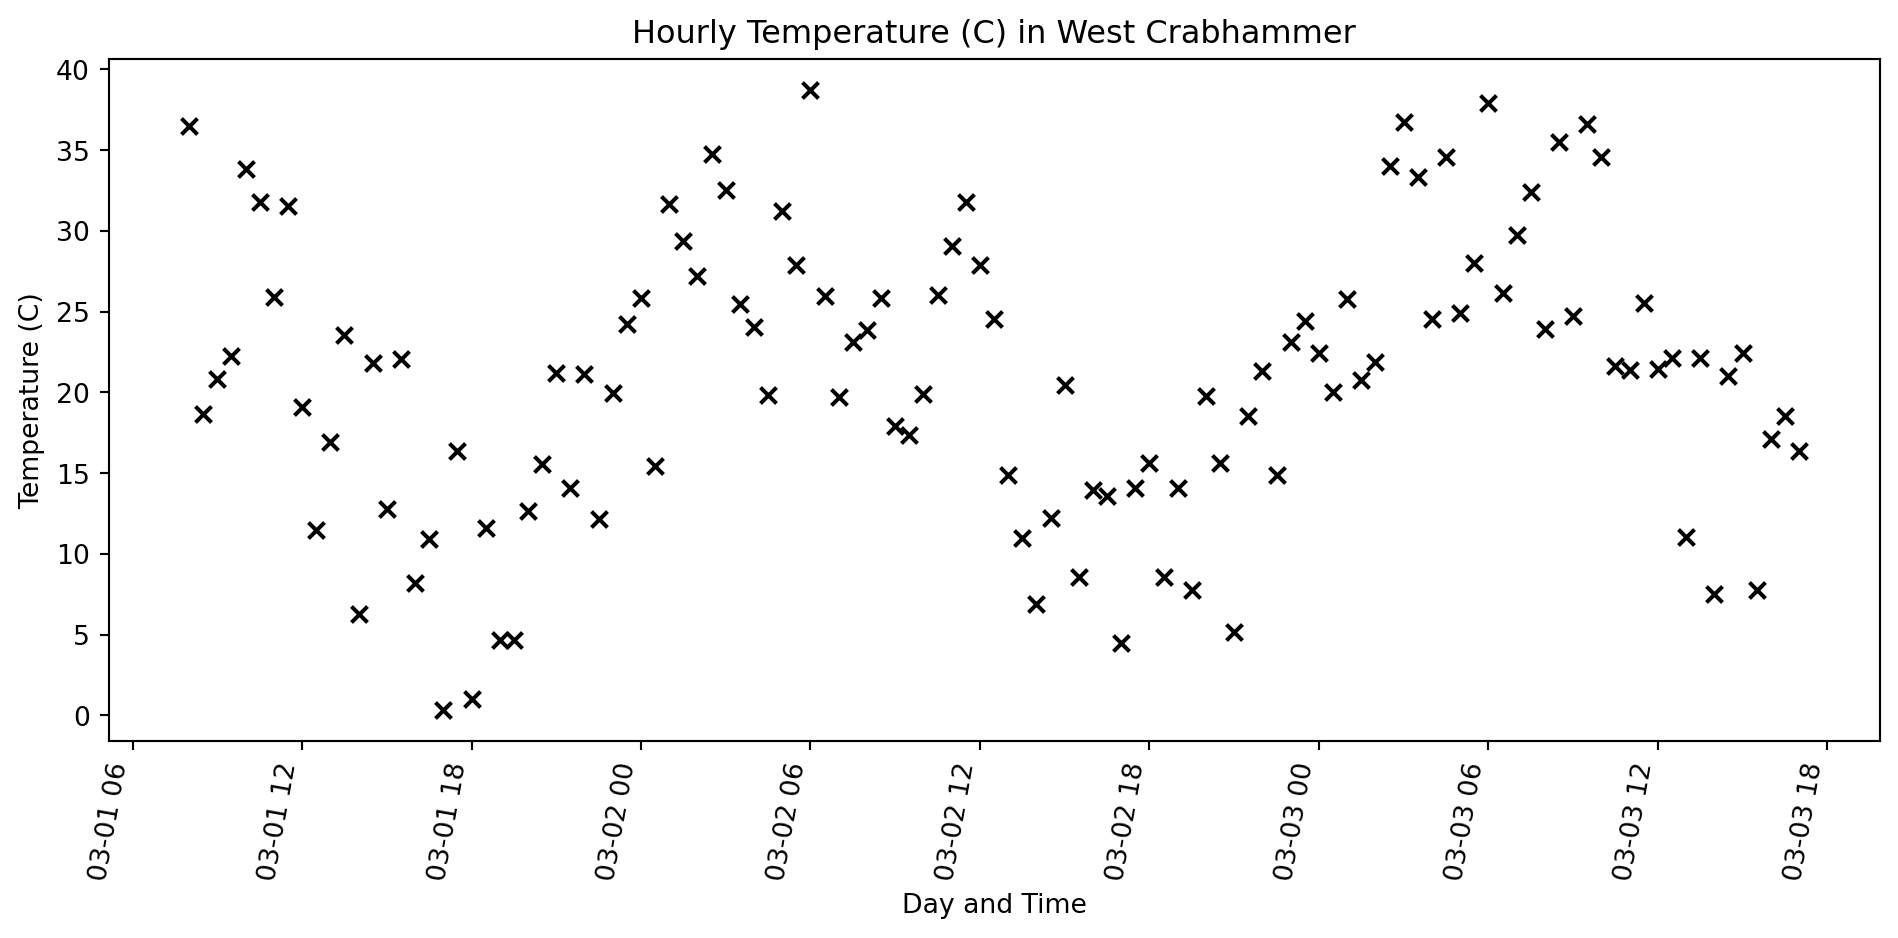
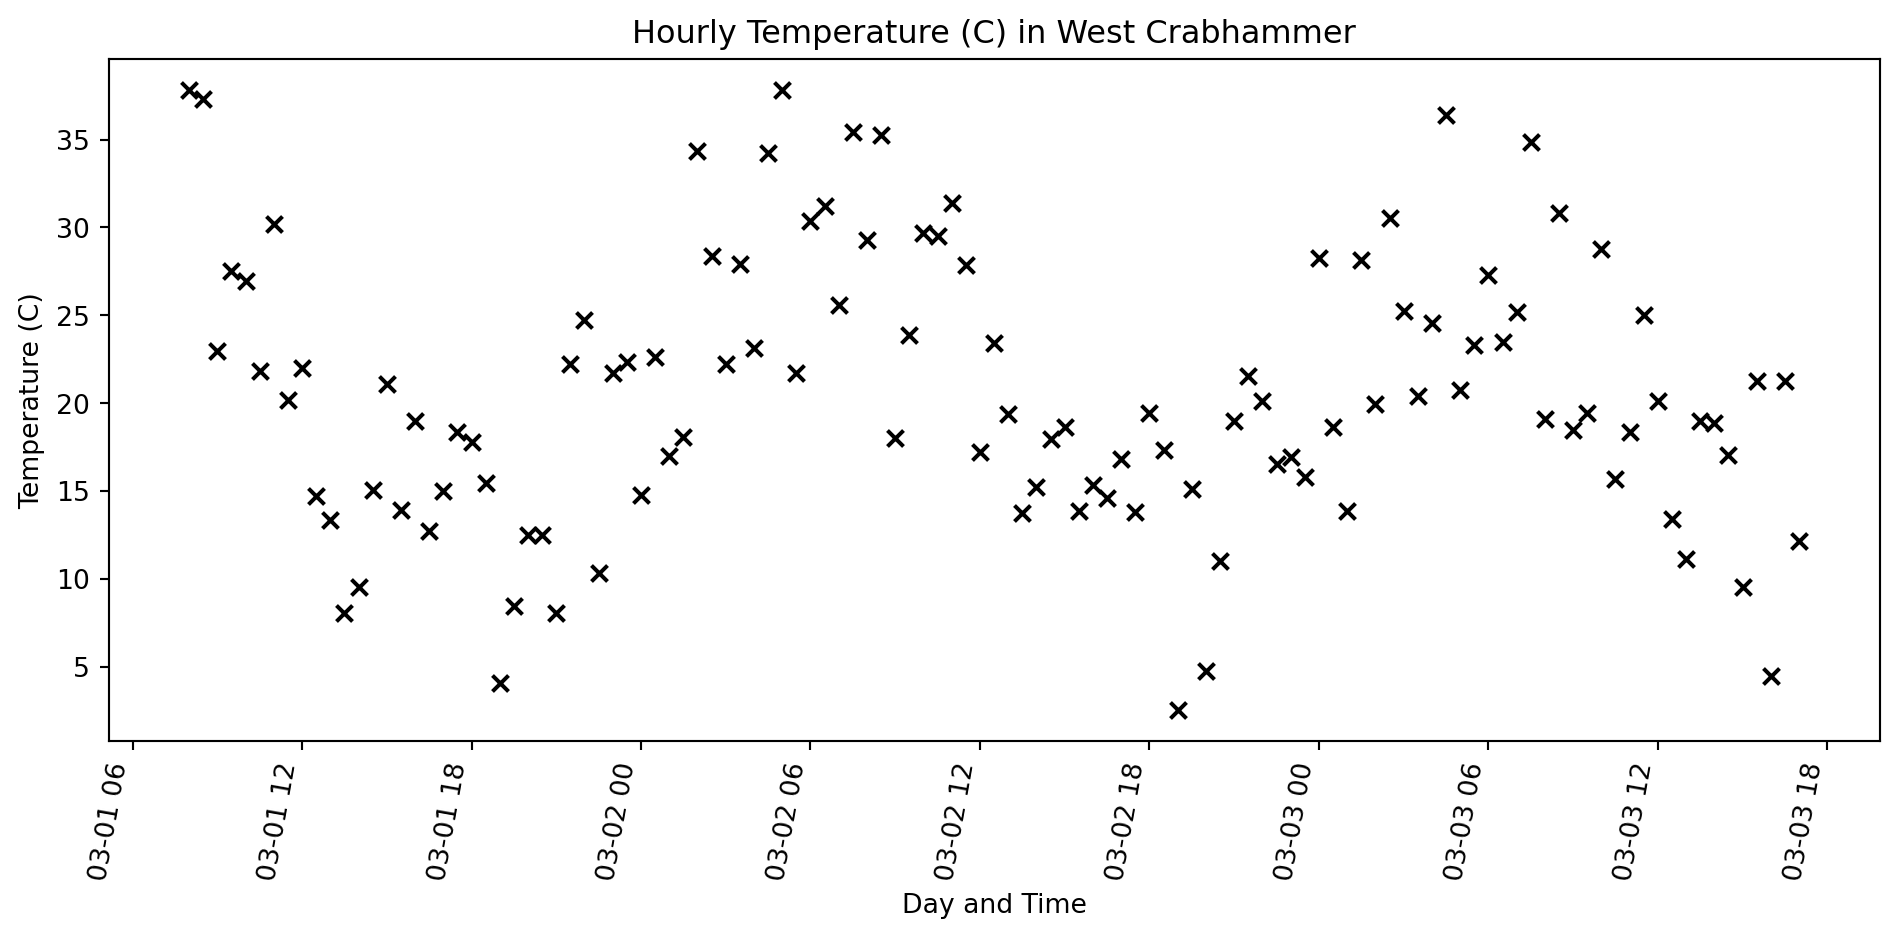
changed

diff --git a/docs/python_geospatial_basics.html b/docs/python_geospatial_basics.html
@@ -293,7 +293,7 @@
 <section id="basic-numbers" class="slide level2">
 <h2>Basic Numbers</h2>
 <p>Floats and Ints don’t do anything all that surprising</p>
-<div id="f6145069" class="cell columns column-output-location" data-execution_count="1">
+<div id="6680e4f9" class="cell columns column-output-location" data-execution_count="1">
 <div class="column">
 <div class="sourceCode cell-code" id="cb5"><pre class="sourceCode numberSource python number-lines code-with-copy"><code class="sourceCode python"><span id="cb5-1"><a></a>a <span class="op">=</span> <span class="dv">2</span> <span class="op">+</span> <span class="dv">2</span></span>
 <span id="cb5-2"><a></a>b <span class="op">=</span> <span class="fl">2.0</span> <span class="op">+</span> <span class="fl">2.0</span></span>
@@ -320,7 +320,7 @@ but 5 // 4 is 1</code></pre>
 <section id="sequences" class="slide level2">
 <h2>Sequences</h2>
 <p>Lists, tuples, and strings ae all sequences</p>
-<div id="c0489eaa" class="cell columns column-output-location" data-execution_count="2">
+<div id="03274af9" class="cell columns column-output-location" data-execution_count="2">
 <div class="column">
 <div class="sourceCode cell-code" id="cb7"><pre class="sourceCode numberSource python number-lines code-with-copy"><code class="sourceCode python"><span id="cb7-1"><a></a><span class="co"># a list</span></span>
 <span id="cb7-2"><a></a>a_list <span class="op">=</span> [<span class="dv">1</span>, <span class="dv">2</span>, <span class="dv">3</span>, <span class="dv">4</span>, <span class="dv">5</span>, <span class="dv">6</span>, <span class="dv">7</span>, <span class="dv">8</span>, <span class="dv">9</span>]</span>
@@ -367,7 +367,7 @@ neushorn?</code></pre>
 </section>
 <section id="dictionaries" class="slide level2">
 <h2>Dictionaries</h2>
-<div id="1da84075" class="cell columns column-output-location" data-execution_count="3">
+<div id="a3706256" class="cell columns column-output-location" data-execution_count="3">
 <div class="column">
 <div class="sourceCode cell-code" id="cb9"><pre class="sourceCode numberSource python number-lines code-with-copy"><code class="sourceCode python"><span id="cb9-1"><a></a>pets <span class="op">=</span> {<span class="st">'honden'</span>: <span class="dv">26</span>, <span class="st">'katten'</span>: <span class="dv">100</span>}</span>
 <span id="cb9-2"><a></a></span>
@@ -386,7 +386,7 @@ neushorn?</code></pre>
 </section>
 <section id="iterating" class="slide level2">
 <h2>Iterating</h2>
-<div id="c7d906b1" class="cell columns column-output-location" data-execution_count="4">
+<div id="d101a84d" class="cell columns column-output-location" data-execution_count="4">
 <div class="column">
 <div class="sourceCode cell-code" id="cb11"><pre class="sourceCode numberSource python number-lines code-with-copy"><code class="sourceCode python"><span id="cb11-1"><a></a>a <span class="op">=</span> [<span class="dv">1</span>, <span class="dv">2</span>, <span class="dv">3</span>, <span class="dv">4</span>, <span class="dv">5</span>, <span class="dv">6</span>, <span class="dv">7</span>, <span class="dv">8</span>, <span class="dv">9</span>]</span>
 <span id="cb11-2"><a></a></span>
@@ -414,7 +414,7 @@ is the same as
 </section>
 <section id="pandas-dataframe" class="slide level2 scrollable">
 <h2>Pandas DataFrame</h2>
-<div id="4fa3c2af" class="cell columns column-output-location" data-execution_count="5">
+<div id="e1fbf73b" class="cell columns column-output-location" data-execution_count="5">
 <div class="column">
 <div class="sourceCode cell-code" id="cb13"><pre class="sourceCode numberSource python number-lines code-with-copy"><code class="sourceCode python"><span id="cb13-1"><a></a><span class="im">from</span> datetime <span class="im">import</span> datetime, timedelta</span>
 <span id="cb13-2"><a></a><span class="im">from</span> random <span class="im">import</span> uniform</span>
@@ -477,27 +477,27 @@ is the same as
 <tr class="odd">
 <td data-quarto-table-cell-role="th">0</td>
 <td>2025-03-01 08:00:00</td>
-<td>25.434542</td>
+<td>37.840644</td>
 </tr>
 <tr class="even">
 <td data-quarto-table-cell-role="th">1</td>
 <td>2025-03-01 08:30:00</td>
-<td>36.557560</td>
+<td>37.333686</td>
 </tr>
 <tr class="odd">
 <td data-quarto-table-cell-role="th">2</td>
 <td>2025-03-01 09:00:00</td>
-<td>32.777295</td>
+<td>22.983621</td>
 </tr>
 <tr class="even">
 <td data-quarto-table-cell-role="th">3</td>
 <td>2025-03-01 09:30:00</td>
-<td>22.868571</td>
+<td>27.527235</td>
 </tr>
 <tr class="odd">
 <td data-quarto-table-cell-role="th">4</td>
 <td>2025-03-01 10:00:00</td>
-<td>28.325198</td>
+<td>26.966044</td>
 </tr>
 </tbody>
 </table>
@@ -508,58 +508,27 @@ is the same as
 </section>
 <section id="pandas-dataframe-cont." class="slide level2 scrollable">
 <h2>Pandas DataFrame Cont.</h2>
-<div id="8650fe00" class="cell columns column-output-location" data-execution_count="6">
+<div id="ba03a9fa" class="cell columns column-output-location" data-execution_count="6">
 <div class="column">
-<div class="sourceCode cell-code" id="cb14"><pre class="sourceCode numberSource python number-lines code-with-copy"><code class="sourceCode python"><span id="cb14-1"><a></a><span class="im">from</span> datetime <span class="im">import</span> datetime, timedelta</span>
-<span id="cb14-2"><a></a><span class="im">from</span> random <span class="im">import</span> uniform</span>
-<span id="cb14-3"><a></a><span class="im">import</span> matplotlib.pyplot <span class="im">as</span> plt</span>
-<span id="cb14-4"><a></a><span class="im">import</span> numpy <span class="im">as</span> np</span>
-<span id="cb14-5"><a></a><span class="im">import</span> pandas <span class="im">as</span> pd</span>
+<div class="sourceCode cell-code" id="cb14"><pre class="sourceCode numberSource python number-lines code-with-copy"><code class="sourceCode python"><span id="cb14-1"><a></a>fig, ax <span class="op">=</span> plt.subplots()</span>
+<span id="cb14-2"><a></a></span>
+<span id="cb14-3"><a></a><span class="co"># create the scatter plot</span></span>
+<span id="cb14-4"><a></a>plt.scatter(df.date_time, df[<span class="st">'T (C)'</span>], marker<span class="op">=</span><span class="st">'x'</span>, color <span class="op">=</span> <span class="st">'k'</span>)</span>
+<span id="cb14-5"><a></a></span>
 <span id="cb14-6"><a></a></span>
-<span id="cb14-7"><a></a><span class="co"># some arbitrary time range </span></span>
-<span id="cb14-8"><a></a>start_time <span class="op">=</span> datetime(<span class="dv">2025</span>, <span class="dv">3</span>, <span class="dv">1</span>, <span class="dv">8</span>, <span class="dv">0</span>, <span class="dv">0</span>)  <span class="co"># 8:00 AM</span></span>
-<span id="cb14-9"><a></a>end_time <span class="op">=</span> datetime(<span class="dv">2025</span>, <span class="dv">3</span>, <span class="dv">3</span>, <span class="dv">17</span>, <span class="dv">0</span>, <span class="dv">0</span>)  <span class="co"># 5:00 PM</span></span>
-<span id="cb14-10"><a></a>interval <span class="op">=</span> timedelta(minutes<span class="op">=</span><span class="dv">30</span>)</span>
-<span id="cb14-11"><a></a>time_stamps <span class="op">=</span> []</span>
-<span id="cb14-12"><a></a>current_time <span class="op">=</span> start_time</span>
-<span id="cb14-13"><a></a><span class="cf">while</span> current_time <span class="op">&lt;=</span> end_time:</span>
-<span id="cb14-14"><a></a>    time_stamps.append(current_time)</span>
-<span id="cb14-15"><a></a>    current_time <span class="op">+=</span> interval</span>
-<span id="cb14-16"><a></a></span>
-<span id="cb14-17"><a></a><span class="co"># some made up temperature data</span></span>
-<span id="cb14-18"><a></a>temp_c <span class="op">=</span> [</span>
-<span id="cb14-19"><a></a>  <span class="dv">20</span> <span class="op">+</span> uniform(<span class="op">-</span><span class="dv">10</span>, <span class="dv">10</span>) <span class="op">+</span> <span class="dv">10</span> <span class="op">*</span></span>
-<span id="cb14-20"><a></a>  np.sin(<span class="dv">2</span> <span class="op">*</span> np.pi <span class="op">*</span> t.hour <span class="op">/</span> <span class="dv">24</span>)</span>
-<span id="cb14-21"><a></a>  <span class="cf">for</span> t</span>
-<span id="cb14-22"><a></a>  <span class="kw">in</span> time_stamps</span>
-<span id="cb14-23"><a></a>]</span>
-<span id="cb14-24"><a></a></span>
-<span id="cb14-25"><a></a><span class="co"># empty dataframe</span></span>
-<span id="cb14-26"><a></a>df <span class="op">=</span> pd.DataFrame()</span>
-<span id="cb14-27"><a></a></span>
-<span id="cb14-28"><a></a><span class="co"># add data</span></span>
-<span id="cb14-29"><a></a>df[<span class="st">'date_time'</span>] <span class="op">=</span> time_stamps</span>
-<span id="cb14-30"><a></a>df[<span class="st">'T (C)'</span>] <span class="op">=</span> temp_c</span>
-<span id="cb14-31"><a></a></span>
-<span id="cb14-32"><a></a>fig, ax <span class="op">=</span> plt.subplots()</span>
-<span id="cb14-33"><a></a></span>
-<span id="cb14-34"><a></a><span class="co"># create the scatter plot</span></span>
-<span id="cb14-35"><a></a>plt.scatter(df.date_time, df[<span class="st">'T (C)'</span>], marker<span class="op">=</span><span class="st">'x'</span>, color <span class="op">=</span> <span class="st">'k'</span>)</span>
-<span id="cb14-36"><a></a></span>
-<span id="cb14-37"><a></a></span>
-<span id="cb14-38"><a></a><span class="co"># set the x-axis tick labels and rotate them</span></span>
-<span id="cb14-39"><a></a>plt.xticks(rotation<span class="op">=</span><span class="dv">80</span>, ha<span class="op">=</span><span class="st">'right'</span>)</span>
-<span id="cb14-40"><a></a></span>
-<span id="cb14-41"><a></a><span class="co"># label axes</span></span>
-<span id="cb14-42"><a></a>plt.xlabel(<span class="st">'Day and Time'</span>)</span>
-<span id="cb14-43"><a></a>plt.ylabel(<span class="st">'Temperature (C)'</span>)</span>
-<span id="cb14-44"><a></a>plt.title(<span class="st">'Hourly Temperature (C) in West Crabhammer'</span>)</span>
-<span id="cb14-45"><a></a></span>
-<span id="cb14-46"><a></a><span class="co"># adjust layout to prevent labels from overlapping</span></span>
-<span id="cb14-47"><a></a>plt.tight_layout()</span>
-<span id="cb14-48"><a></a></span>
-<span id="cb14-49"><a></a><span class="co"># Show the plot</span></span>
-<span id="cb14-50"><a></a>plt.show()</span></code><button title="Copy to Clipboard" class="code-copy-button"><i class="bi"></i></button></pre></div>
+<span id="cb14-7"><a></a><span class="co"># set the x-axis tick labels and rotate them</span></span>
+<span id="cb14-8"><a></a>plt.xticks(rotation<span class="op">=</span><span class="dv">80</span>, ha<span class="op">=</span><span class="st">'right'</span>)</span>
+<span id="cb14-9"><a></a></span>
+<span id="cb14-10"><a></a><span class="co"># label axes</span></span>
+<span id="cb14-11"><a></a>plt.xlabel(<span class="st">'Day and Time'</span>)</span>
+<span id="cb14-12"><a></a>plt.ylabel(<span class="st">'Temperature (C)'</span>)</span>
+<span id="cb14-13"><a></a>plt.title(<span class="st">'Hourly Temperature (C) in West Crabhammer'</span>)</span>
+<span id="cb14-14"><a></a></span>
+<span id="cb14-15"><a></a><span class="co"># adjust layout to prevent labels from overlapping</span></span>
+<span id="cb14-16"><a></a>plt.tight_layout()</span>
+<span id="cb14-17"><a></a></span>
+<span id="cb14-18"><a></a><span class="co"># Show the plot</span></span>
+<span id="cb14-19"><a></a>plt.show()</span></code><button title="Copy to Clipboard" class="code-copy-button"><i class="bi"></i></button></pre></div>
 </div><div class="column">
 <div class="cell-output cell-output-display">
 <div>
@@ -569,12 +538,12 @@ is the same as
 </div>
 </div>
 </div></div>
-<div id="b5f97d78" class="cell columns column-output-location" data-execution_count="7">
+<div id="73dac54a" class="cell columns column-output-location" data-execution_count="7">
 <div class="column">
 <div class="sourceCode cell-code" id="cb15"><pre class="sourceCode numberSource python number-lines code-with-copy"><code class="sourceCode python"><span id="cb15-1"><a></a>df[<span class="st">'T (C)'</span>].mean()</span></code><button title="Copy to Clipboard" class="code-copy-button"><i class="bi"></i></button></pre></div>
 </div><div class="column">
 <div class="cell-output cell-output-display" data-execution_count="7">
-<pre><code>np.float64(20.910887306707167)</code></pre>
+<pre><code>np.float64(20.547606835131923)</code></pre>
 </div>
 </div></div>
 </section>
@@ -622,7 +591,7 @@ is the same as
 </section>
 <section id="polygon" class="slide level2">
 <h2>Polygon</h2>
-<div id="5d6f1ddd" class="cell columns column-output-location" data-execution_count="8">
+<div id="b1d9b100" class="cell columns column-output-location" data-execution_count="8">
 <div class="column">
 <div class="sourceCode cell-code" id="cb17"><pre class="sourceCode numberSource python number-lines code-with-copy"><code class="sourceCode python"><span id="cb17-1"><a></a><span class="im">from</span> shapely <span class="im">import</span> Polygon</span>
 <span id="cb17-2"><a></a></span>
@@ -649,7 +618,7 @@ is the same as
 <section id="reading-files" class="slide level2">
 <h2>Reading Files</h2>
 <p>Here we will read a geojson using the <code>read_file</code> method.</p>
-<div id="3c393838" class="cell columns column-output-location" data-execution_count="9">
+<div id="a17bb5d4" class="cell columns column-output-location" data-execution_count="9">
 <div class="column">
 <div class="sourceCode cell-code" id="cb19"><pre class="sourceCode numberSource python number-lines code-with-copy"><code class="sourceCode python"><span id="cb19-1"><a></a><span class="im">from</span> pathlib <span class="im">import</span> Path</span>
 <span id="cb19-2"><a></a><span class="im">import</span> geopandas <span class="im">as</span> gpd</span>
